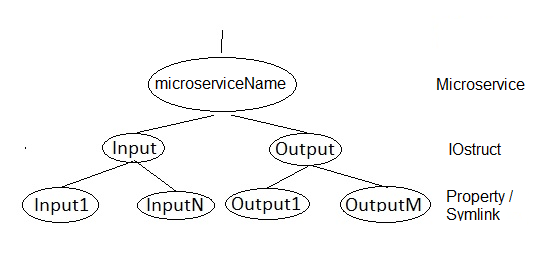
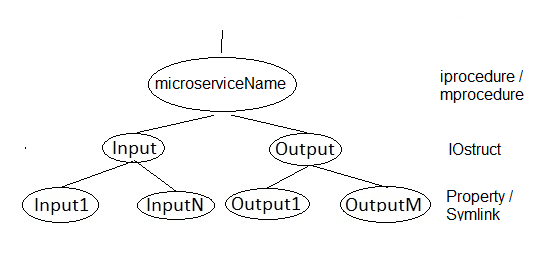
Data service model update.

Changed region(s): [[0.7589, 0.2791, 0.9411, 0.4031]]

diff --git a/docs-gen/content/service_data_rule_set/basics.md b/docs-gen/content/service_data_rule_set/basics.md
@@ -33,18 +33,35 @@ The general structure of how a microservice is represented in a HIM tree is show
 ![HIM microservice tree structure](/hierarchical_information_model/images/microservice_tree_structure.png?width=50pc)
 *Figure x. HIM microservice tree structure
 
-- The name of the procedure is the name of the node of `microservice` type.
+- The name of the procedure is the name of the node of one f the types `iprocedure` or `mprocedure`, see more about the types below.
 - The input and output parameters are respectively represented by a  node of type `iostruct` that must have the names 'Input' and 'Output', respectively.
 - An input/output parameter is represented by a node of type `property` or `symlink`.
 
 Any Input/Output nodes, and their associated children, are only present if the procedure has at least one parameter of the respective Input/Output.
 
+## Node types iprocedure and mprocedure
+The typical pattern for invoking a procedure by a client is that the logic implementing the procedure is actuated, and this atuation is controlled by the procedure input parameters.
+In a multi-client environment there might also be a need for clients to monitor the state and outputs of a procedure that might be invoked by other clients.
+The procedure may not have exactly the same input and output parameters for these two cases.
+A call for monitoring of the procedure should not include input parameters that are used in controlling its actuation as the procedure in this case is not actuated.
+The output may also contain other parameters for improving the observability of its state than when it is called for actuation of it.
+
+To realize these different cases, two different node types representing the procedure exist, the iprocedure (invoke procedure) node type and the mprocedure (monitor procedure) node type.
+The node names of these two nodes shall have the same procedure name, prefixe with "i" for the iprocedure node type and "m" for the mprocedure node type.
+The iprocedure node type MUST be defined for a procedure, the mprocedure node type MUST NOT be defined if there is not also an iprocedure definition.
+
+An interface implementing the HIM service data model is expected to support the two flavors of procedure calls.
+It may choose to support only the invoke flavor.
+
 ## Microservice state
 
 A microservice may have a temporal duration from it is started and until it completes.
-It is therefore desireable that the state of the microservice can be observed,
-as it may be the case that an ongoing microservice execution does not allow new microservice actuations to be started.
-The state of a HIM microservice is represented by a uint8 datatype value that all `microservice` nodes have as a mandatory metadata.
+It may therefore desireable that the state of the microservice can be observed,
+as e. g. it may be the case that an ongoing microservice execution does not allow new microservice actuations to be started.
+If an observable microservice state is desired, then the designer of this HIM service domain must create such an output parameter of the microservice.
+The characteristics of this output parameter can be freely chosen, but below is a proposal that if widely used may help to improvve interoperability.
+
+The state of the HIM microservice is represented by a uint8 datatype value.
 
 The allowed values of the microservice state are:
 - 0-99 : ongoing
@@ -54,7 +71,7 @@ The allowed values of the microservice state are:
 
 The rules for how a microservice shall update the state value follows below:
 
-- A fully functioning that is not ongoing shall have the value 100.
+- A fully functioning microservice that is not ongoing shall have the value 100.
 - When a valid microservice request is received the state shall be set to zero (0).
 - The microservice may update the state value as the microservice execution proceeds.
 - When the microservice execution successfully terminates the state value must be set to 100.

diff --git a/docs-gen/content/service_data_rule_set/iprocedure-mprocedure.md b/docs-gen/content/service_data_rule_set/iprocedure-mprocedure.md
@@ -1,0 +1,30 @@
+---
+title: "iprocedure and mprocedure nodes"
+weight: 30
+---
+
+As described in the [Service Data Model](https://covesa.github.io/hierarchical_information_model/service_data_rule_set/basics#node-types-iprocedure-and-mprocedure) chapter
+there are two types of nodes that can be used to represent microservices.
+
+Nodes of the types `iprocedure` or `mprocedure` must have the following mandatory metadata:
+- Name
+- Type
+- Description
+
+For more information, see the [Common Rule Set: Mandatory Metadata](/hierarchical_information_model/common_rule_set/basics#mandatory-metadata).
+
+Besides the mandatory metadata mentioned above, the following optional metadata may be used
+- Comment
+
+For more information, please see the [Common Rule Set: Optional Metadata](/hierarchical_information_model/common_rule_set/basics#optional-metadata).
+
+- A parent must be of the node type `branch`.
+- Children, if any, must be of the node type `iostruct`.
+
+An example of the specification of a `iprocedure` node is given below. Please observe that the microserviceName should be prefixed with the letter i.
+```YAML
+imicroserviceName:
+  type: iprocedure
+  description: This is an example of a microservice iprocedure node containing its mandatory metadata.
+```
+Changing the type to `mprocedure` and the microserviceName prefix to the letter m would then represent the monitor flavor of the microservice specification.

diff --git a/README.md b/README.md
@@ -31,7 +31,7 @@ Another ambition of HIM s that it shall support definition of taxonomies of diff
 and not only the type here called "resource data".
 HIM currently supports the following "information types":
 - Resource data: Information defining the data that a resource produces or consumes.
-- Service data: Information defining the details of a "service" in the form of a procedure (name, iput, output).
+- Service data: Information defining the details of a "service" in the form of a procedure (name, input, output).
 - Type definition data: Information defining complex/composite data types that are used by the other information types.
 
 HIM also provides a rule set for the definition of a "configuration file" that can be used by a HIM enabled data server in its management of

diff --git a/docs-gen/content/service_data_rule_set/iostruct.md b/docs-gen/content/service_data_rule_set/iostruct.md
@@ -25,7 +25,7 @@ Besides the mandatory metadata mentioned above, the following optional metadata 
 For more information, please see the [Common Rule Set: Optional Metadata](/hierarchical_information_model/common_rule_set/basics#optional-metadata).
 
 - A leaf node cannot have the `iostruct` node type.
-- A parent must be of the node type `microservice`.
+- A parent must be of one of the node types `iprocedure` or `mprocedure`.
 - Children must be of the node types `property` or `symlink`.
 - It must have at least one child.
 
